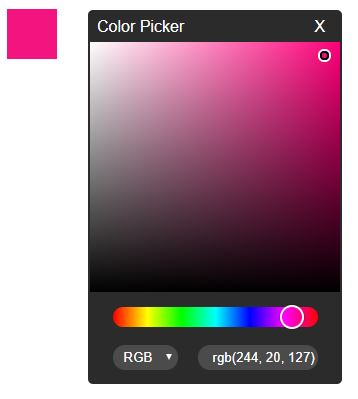
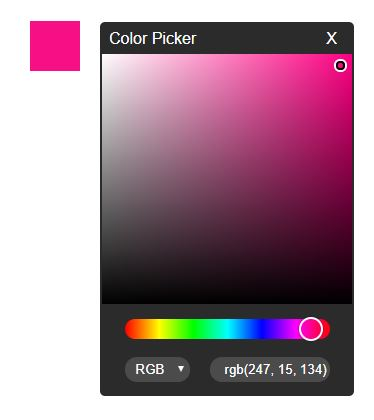
Update color-picker-rgb image

Changed region(s): [[0.2458, 0.0, 0.9525, 0.9624], [0.0, 0.0, 0.2151, 0.1805]]

diff --git a/css/style.css b/css/style.css
@@ -1,3 +1,7 @@
+body{
+	margin: 22px;
+}
+
 #on{
 	width: 50px;
 	height: 50px;
